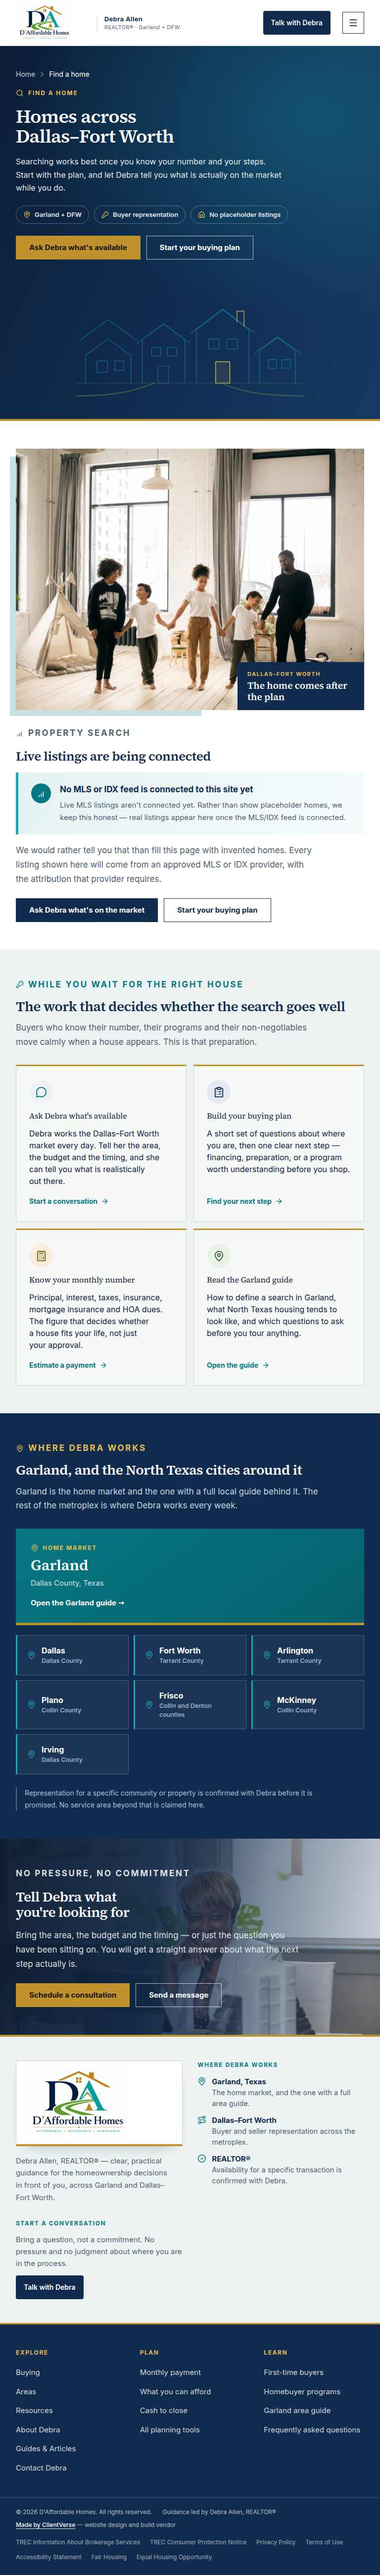
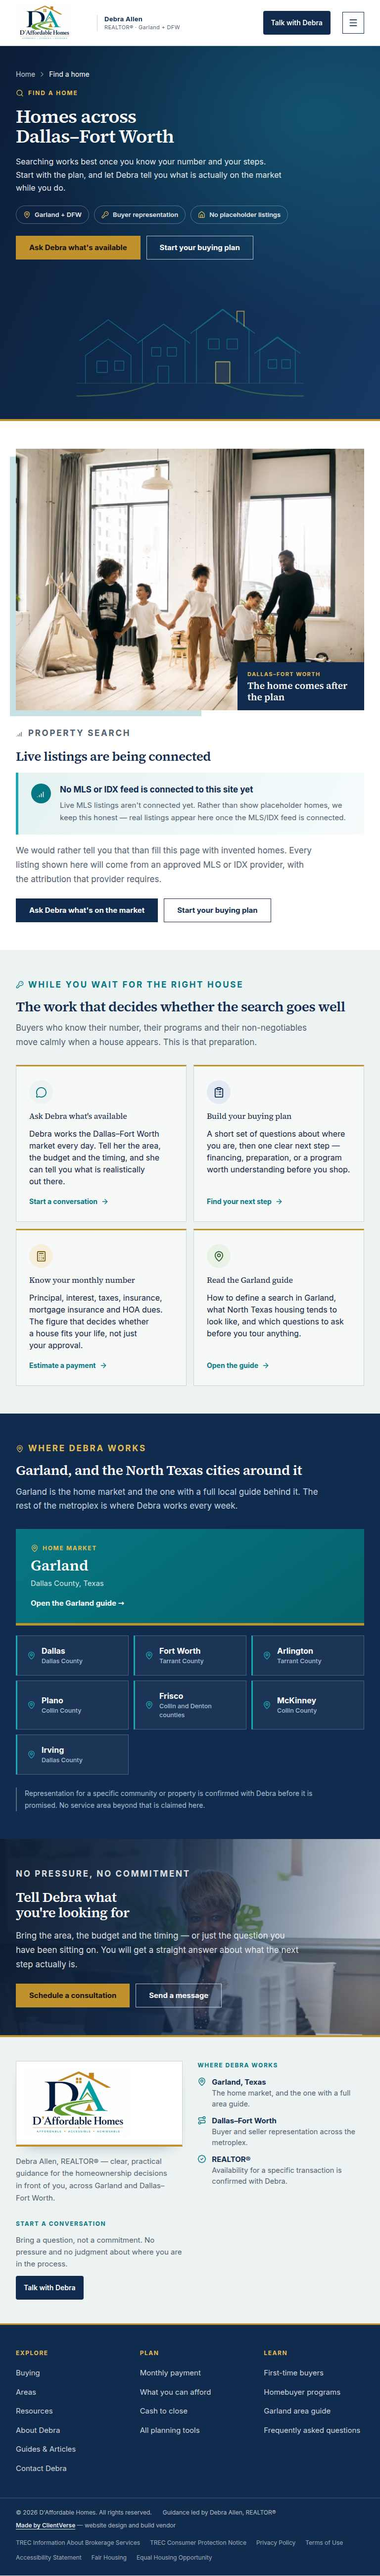
Centre the market feature panel and refresh the evidence
The Garland panel stretches to whatever the guide grid beside it needs, and
anchoring its copy to the bottom left a tall field of empty teal above it.

Verified end to end while the evidence was regenerating: /start's assessment
still runs on the approved palette with no page errors, and the homepage quiz
still hands off — six answers written to daffordable-next-step-v1, the link
resolving to /start#naca, the record surviving the navigation, and /start
opening on the restored result rather than question one.

Claude-Session: https://claude.ai/code/session_01DpgcNpXHxftcJSAfKunkuK

diff --git a/apps/web/app/globals.css b/apps/web/app/globals.css
@@ -1836,7 +1836,10 @@
 .dh-band-teal .dh-place-county { color: rgba(255,255,255,.75); }
 
 /* Feature place: the one market with a real guide behind it. */
-.dh-place-feature { display: flex; flex-direction: column; gap: 10px; justify-content: flex-end; min-height: 100%; padding: 30px 30px 28px; background: linear-gradient(145deg, var(--dh-teal) 0%, var(--dh-teal-deep) 100%); border-bottom: 5px solid var(--dh-gold); color: #fff; text-decoration: none; transition: transform .22s ease; }
+/* Centred, not bottom-anchored: the panel stretches to whatever the grid
+   beside it needs, and anchoring the copy to the bottom left a tall field of
+   empty teal above it. */
+.dh-place-feature { display: flex; flex-direction: column; gap: 10px; justify-content: center; min-height: 100%; padding: 30px 30px 28px; background: linear-gradient(145deg, var(--dh-teal) 0%, var(--dh-teal-deep) 100%); border-bottom: 5px solid var(--dh-gold); color: #fff; text-decoration: none; transition: transform .22s ease; }
 .dh-place-feature:hover { transform: translateY(-3px); }
 .dh-place-feature-label { display: inline-flex; align-items: center; gap: 8px; color: var(--dh-gold-light); font-size: 12px; font-weight: 700; letter-spacing: .14em; text-transform: uppercase; }
 .dh-place-feature-name { font-family: var(--font-serif); font-size: clamp(30px, 3.4vw, 42px); font-weight: 600; line-height: 1.05; }
